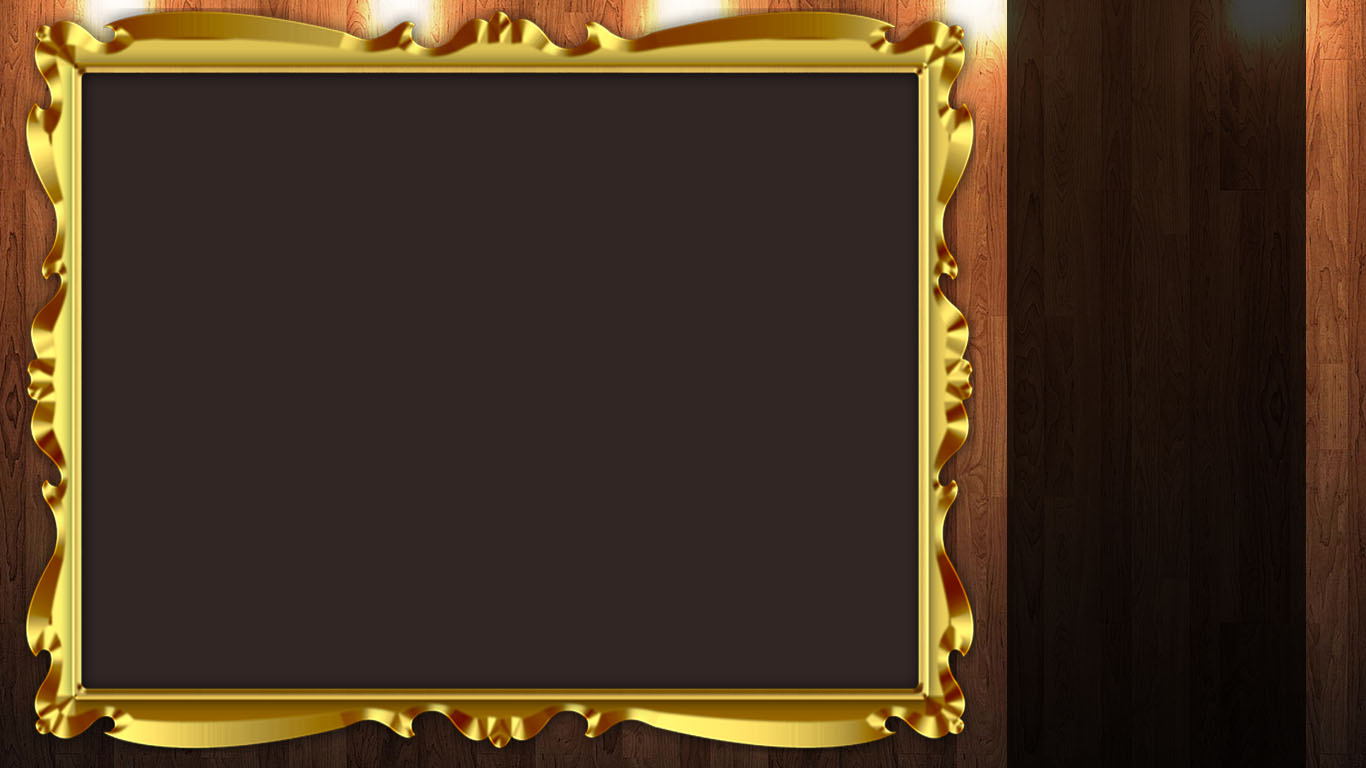
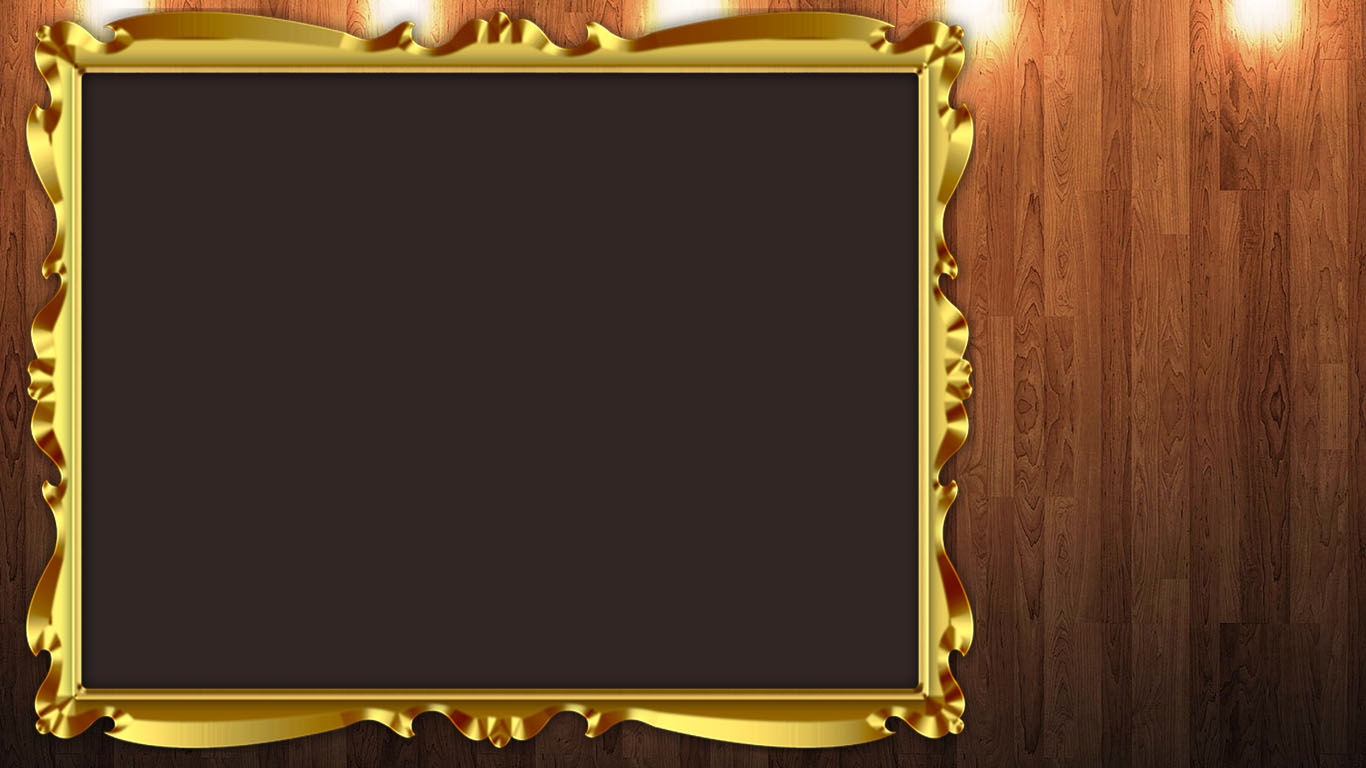
Some code optimisation in GameProfile; general code tidying; pane is now a floating sprite in PuzzleGame scene; current background can now be referenced outside of GameProfile

Changed region(s): [[0.7379, 0.0, 0.9531, 1.0]]

diff --git a/Project/GameProfile.cpp b/Project/GameProfile.cpp
@@ -44,7 +44,7 @@ std::string GameProfile::profileSettingToString(ProfileStat setting)
         }
         default:
         {
-            return "null";
+            throw std::runtime_error("Error in profileSettingToString");
         }
     }
 }
@@ -54,7 +54,7 @@ std::string GameProfile::getProfileStat(ProfileStat setting)
     return profileSettings[profileSettingToString(setting)];
 }
 
-void GameProfile::setProfileStat(ProfileStat setting, std::string val)
+void GameProfile::setProfileStat(ProfileStat setting, const std::string &val)
 {
     profileSettings[profileSettingToString(setting)] = val;
 }
@@ -85,24 +85,12 @@ void GameProfile::enumerateUnlocks()
 
     std::string unlockedBackgrounds = getProfileStat(ProfileStat::backgroundsUnlocked);
 
-    if (unlockedBackgrounds.find("regal") != std::string::npos)
+    for (GameUnlock g : unlocks)
     {
-        unlocks[backgroundNameToInt(BackgroundName::regal)].setLocked(false);
-    }
-
-    if (unlockedBackgrounds.find("nature") != std::string::npos)
-    {
-        unlocks[backgroundNameToInt(BackgroundName::nature)].setLocked(false);
-    }
-
-    if (unlockedBackgrounds.find("spooky") != std::string::npos)
-    {
-        unlocks[backgroundNameToInt(BackgroundName::spooky)].setLocked(false);
-    }
-
-    if (unlockedBackgrounds.find("alien") != std::string::npos)
-    {
-        unlocks[backgroundNameToInt(BackgroundName::alien)].setLocked(false);
+        if (unlockedBackgrounds.find(g.getName()) != std::string::npos)
+        {
+            unlocks[g.getID()].setLocked(false);
+        }
     }
 }
 
@@ -111,9 +99,17 @@ std::vector<GameUnlock> &GameProfile::getUnlocks()
     return unlocks;
 }
 
-int GameProfile::backgroundNameToInt(BackgroundName name)
+int GameProfile::stringToBackgroundID(const std::string &str)
 {
-    return static_cast<int>(name);
+    for (GameUnlock g : unlocks)
+    {
+        if (str == g.getName())
+        {
+            return g.getID();
+        }
+    }
+
+    throw std::runtime_error("Error in stringToBackgroundID");
 }
 
 bool GameProfile::isInitialised()

diff --git a/Project/PuzzleGame.cpp b/Project/PuzzleGame.cpp
@@ -66,7 +66,7 @@ void PuzzleGame::initLabels()
 
     updateMovesLabel();
 
-    this->addChild(movesLabel, 1);
+    this->addChild(movesLabel, 2);
 }
 
 void PuzzleGame::initMenu()
@@ -94,7 +94,11 @@ void PuzzleGame::initMenu()
     menuChoose->setPositionY(-215);
     menuMain->setPositionY(-275);
 
-    this->addChild(menu, 1);
+    Sprite *pane = Sprite::create("utility/pane.png");
+    pane->setPosition(Vec2(visibleSize.width - 210, visibleSize.height / 2));
+
+    this->addChild(menu, 2);
+    this->addChild(pane, 1);
 }
 
 void PuzzleGame::initPreviewImage()
@@ -107,8 +111,8 @@ void PuzzleGame::initPreviewImage()
     Label *label = Label::createWithTTF("Preview", "fonts/Marker Felt.ttf", 24);
     label->setPosition(Vec2(preview->getPositionX(), preview->getPositionY() + 125));
 
-    this->addChild(label, 1);
-    this->addChild(preview, 1);
+    this->addChild(label, 2);
+    this->addChild(preview, 2);
 }
 
 void PuzzleGame::updateMovesLabel(int increment)

diff --git a/Project/GameProfile.h b/Project/GameProfile.h
@@ -13,14 +13,6 @@ enum class ProfileStat
     currentBackground
 };
 
-enum class BackgroundName
-{
-    regal = 0,
-    nature,
-    spooky,
-    alien
-};
-
 class GameProfile
 {
 public:
@@ -30,7 +22,7 @@ public:
     static std::string profileSettingToString(ProfileStat setting);
 
     static std::string getProfileStat(ProfileStat setting);
-    static void setProfileStat(ProfileStat setting, std::string val);
+    static void setProfileStat(ProfileStat setting, const std::string &val);
     static void modifyProfileStat(ProfileStat setting, int amount);
 
     static std::string getCurrentBackground();
@@ -39,7 +31,7 @@ public:
     static void enumerateUnlocks();
     static std::vector<GameUnlock> &getUnlocks();
 
-    static int backgroundNameToInt(BackgroundName name);
+    static int stringToBackgroundID(const std::string &str);
 
     static bool isInitialised();
     static void setInitialised(bool b);

diff --git a/Project/GameSettings.cpp b/Project/GameSettings.cpp
@@ -41,12 +41,12 @@ void GameSettings::setSegmentsY(int y)
 
 void GameSettings::enumeratePuzzles()
 {
-    std::wstring executable_path = get_executable_path();
+    std::wstring executable_path = getExecutablePath();
 
     std::vector<std::string> puzzlesJpg = 
-        enumerate_files(executable_path + L"\\puzzles\\*.jpg");
+        enumerateFiles(executable_path + L"\\puzzles\\*.jpg");
     std::vector<std::string> puzzlesPng =
-        enumerate_files(executable_path + L"\\puzzles\\*.png");
+        enumerateFiles(executable_path + L"\\puzzles\\*.png");
 
     puzzles.reserve(puzzlesJpg.size() + puzzlesPng.size());
     puzzles.insert(puzzles.end(), puzzlesJpg.begin(), puzzlesJpg.end());

diff --git a/Project/FileUtils.cpp b/Project/FileUtils.cpp
@@ -14,7 +14,7 @@ static std::string wstring_to_string(const std::wstring &str)
     return converter.to_bytes(str);
 }
 
-std::wstring get_executable_path()
+std::wstring getExecutablePath()
 {
     const char executeableName[] = "PuzzleGame.exe";
 
@@ -33,7 +33,7 @@ std::wstring get_executable_path()
     return pathstr.substr(0, pathstr.length()-sizeof(executeableName));
 }
 
-std::vector<std::string> enumerate_files(const std::wstring& path)
+std::vector<std::string> enumerateFiles(const std::wstring& path)
 {
     WIN32_FIND_DATA ffd;
     HANDLE hFind = FindFirstFile(path.c_str(), &ffd);

diff --git a/Project/ProfileUnlocks.cpp b/Project/ProfileUnlocks.cpp
@@ -110,7 +110,8 @@ void ProfileUnlocks::initPreviewImages()
         this->addChild(spr, 1);
     }
 
-    //previewImages[GameSettings::getImageID()]->setOpacity(selectedOpacity);
+    previewImages[GameProfile::stringToBackgroundID
+        (GameProfile::getCurrentBackground())]->setOpacity(selectedOpacity);
 }
 
 bool ProfileUnlocks::imageClick(cocos2d::Touch *touch, cocos2d::Event *event)

diff --git a/Project/FileUtils.h b/Project/FileUtils.h
@@ -3,7 +3,7 @@
 #include <string>
 #include <vector>
 
-std::wstring get_executable_path();
-std::vector<std::string> enumerate_files(const std::wstring& path);
+std::wstring getExecutablePath();
+std::vector<std::string> enumerateFiles(const std::wstring &path);
 void loadProfile();
 void saveProfile();

diff --git a/Project/MainMenu.cpp b/Project/MainMenu.cpp
@@ -162,6 +162,5 @@ void MainMenu::gotoStatistics(cocos2d::Ref* sender)
 void MainMenu::exitGame(cocos2d::Ref *pSender)
 {
     saveProfile();
-
     Director::getInstance()->end();
 }
